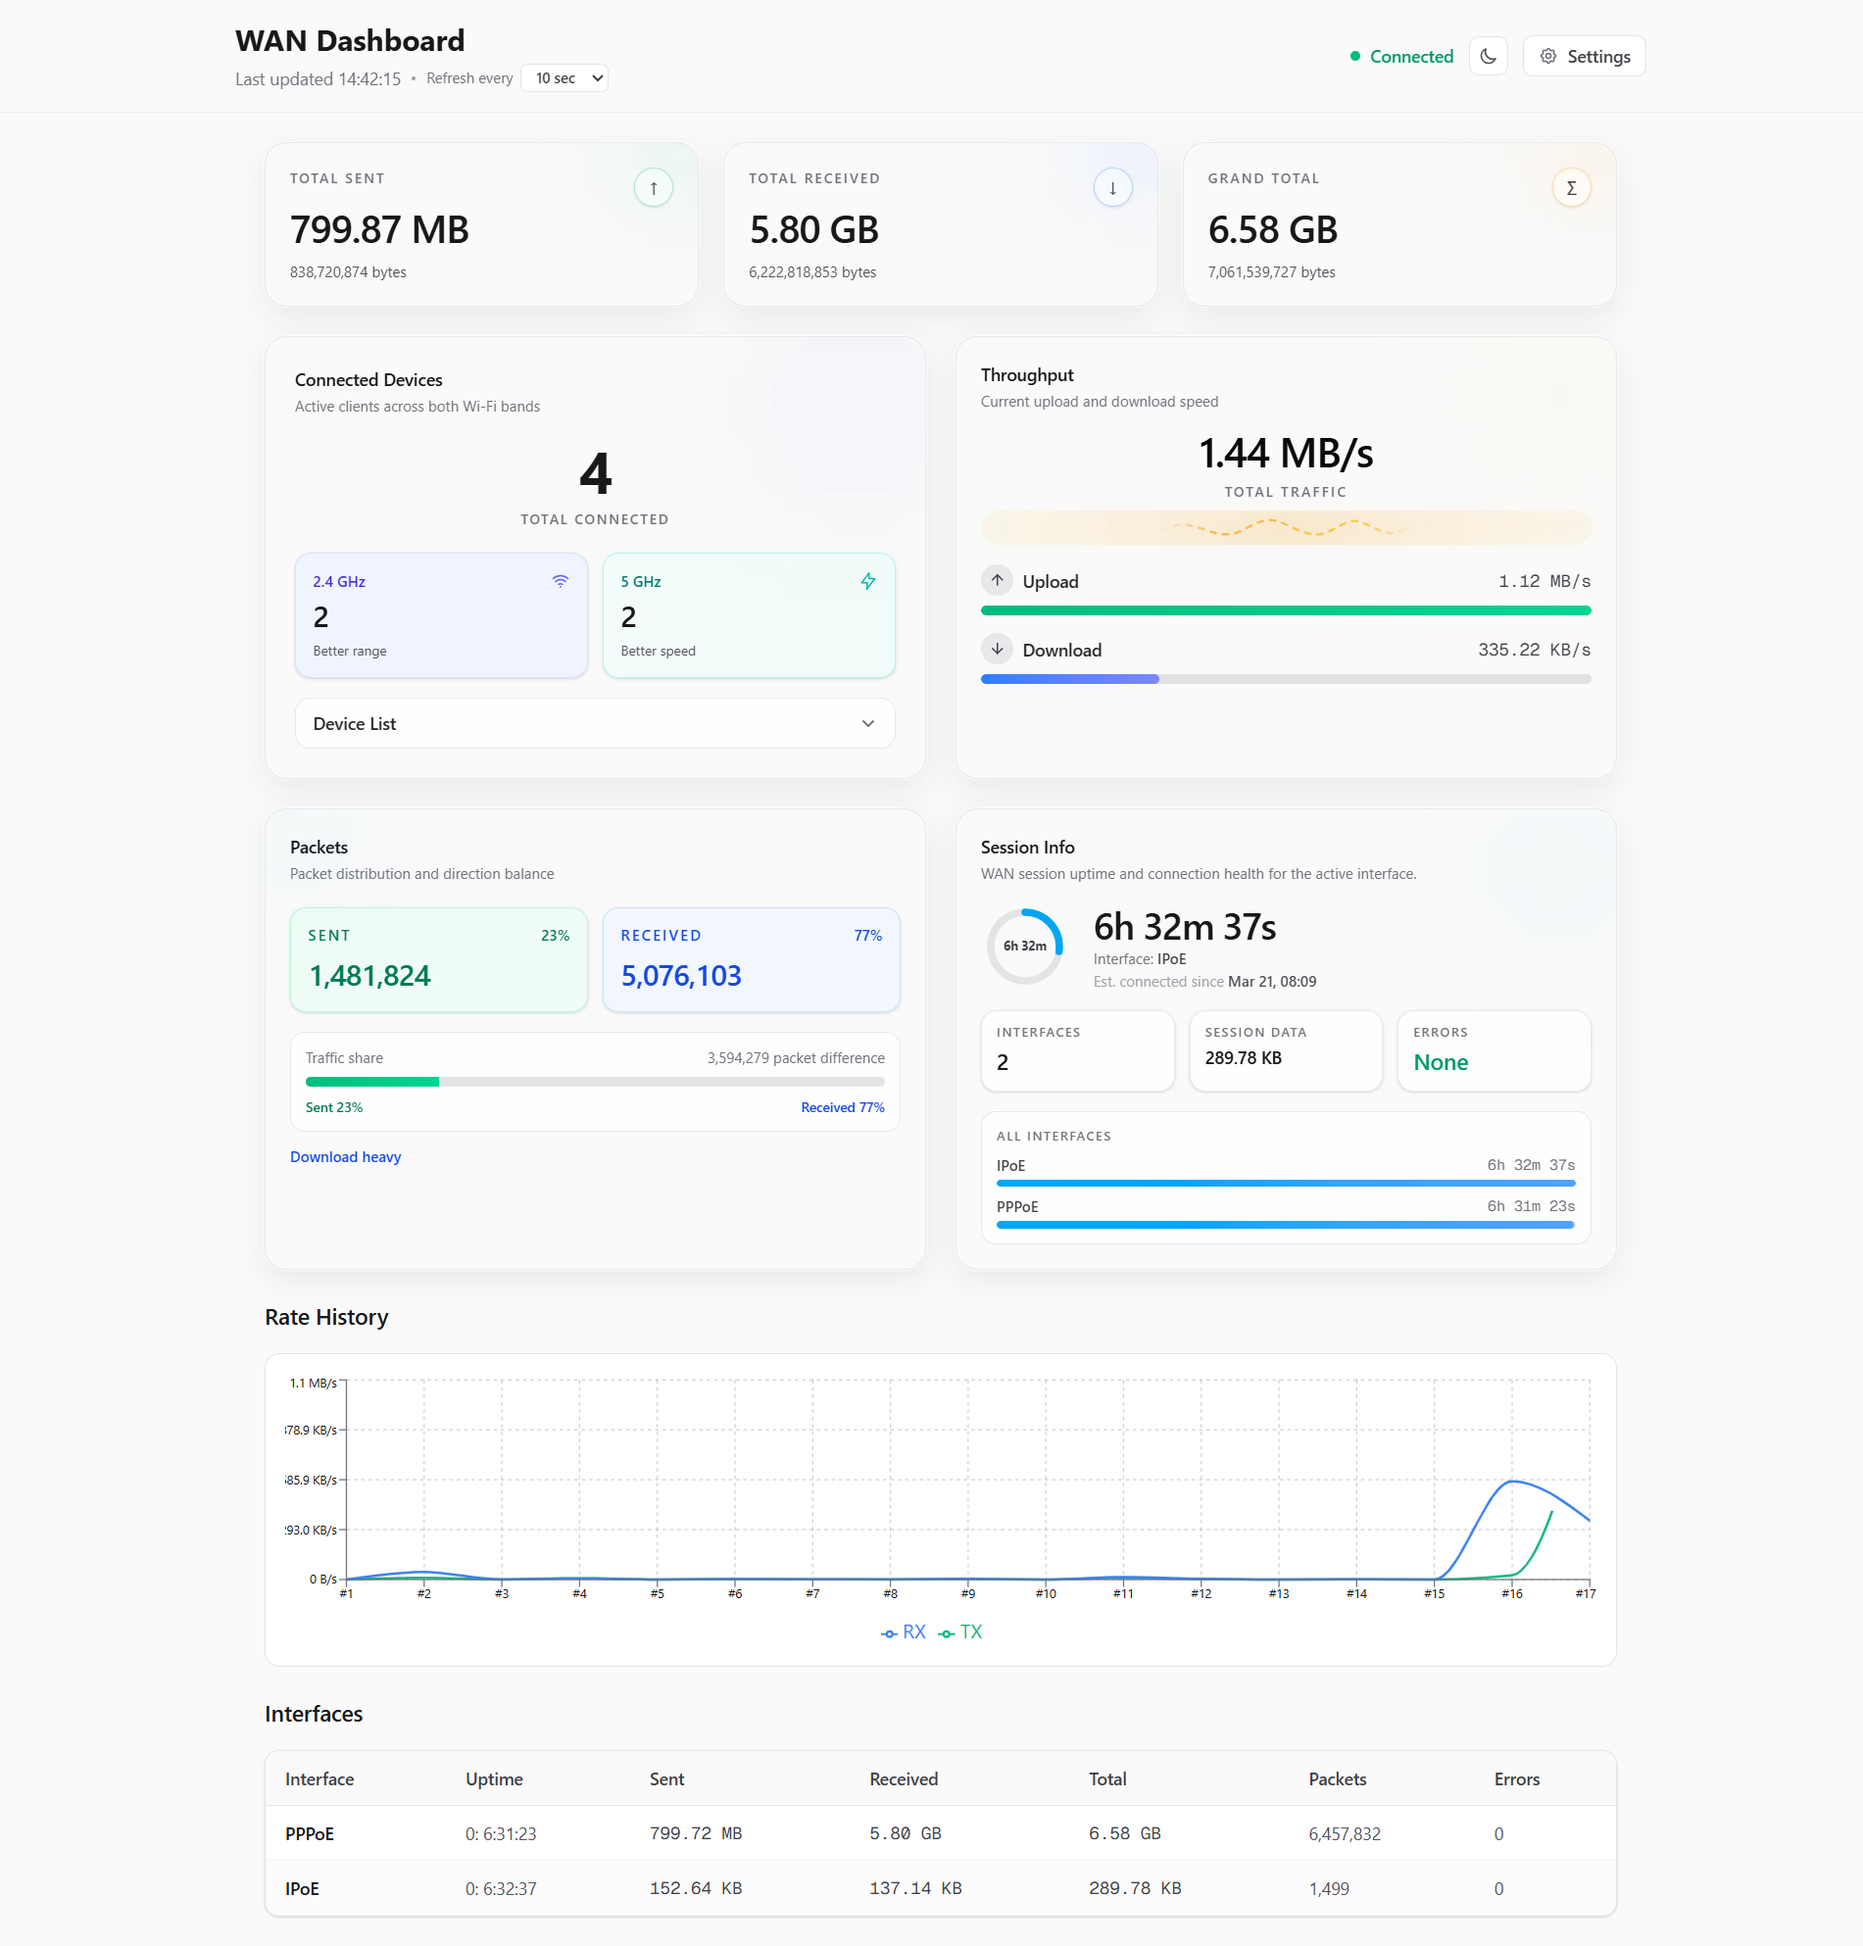
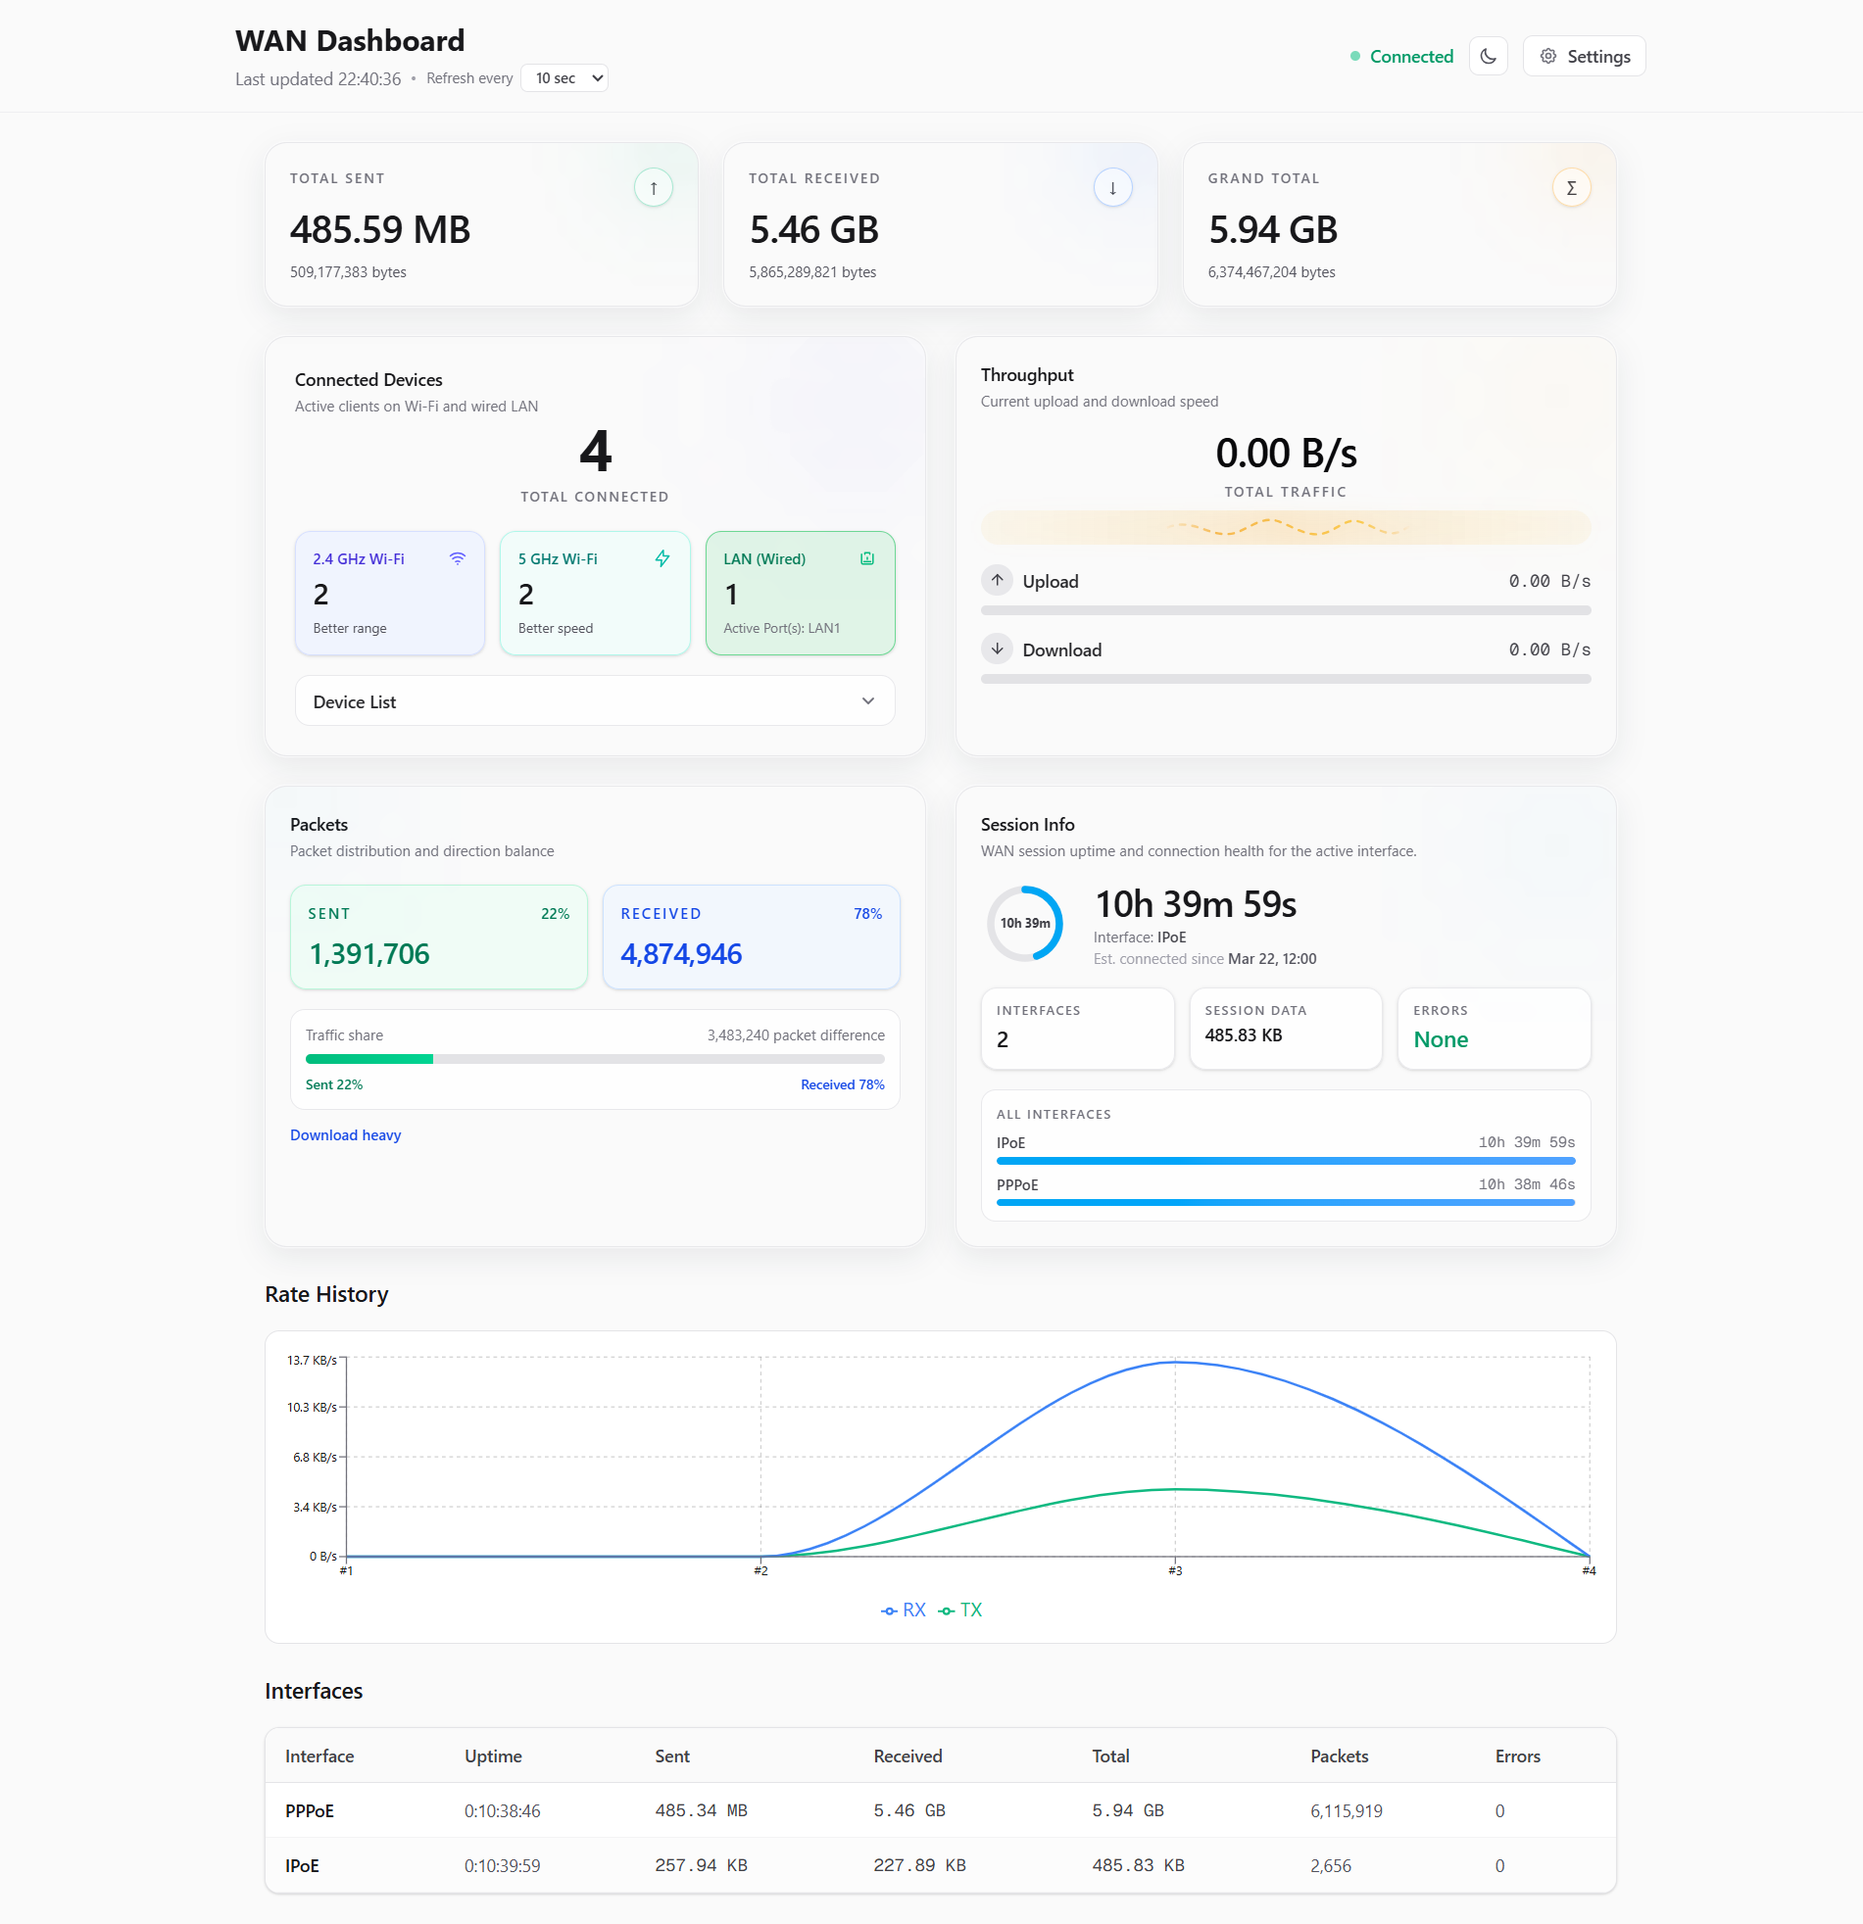
active LANs also be shown

diff --git a/components/connected-devices-card.tsx b/components/connected-devices-card.tsx
@@ -10,6 +10,7 @@ interface ConnectedDevicesCardProps {
   title?: string;
   subtitle?: string;
   emptyListMessage?: string;
+  upLans?: string[];
 }
 
 function useCountUp(target: number, duration = 550) {
@@ -43,8 +44,9 @@ export function ConnectedDevicesCard({
   devices,
   variant = "default",
   title = "Connected Devices",
-  subtitle = "Active clients across both Wi-Fi bands",
+  subtitle = "Active clients on Wi-Fi and wired LAN",
   emptyListMessage = "No connected devices detected right now.",
+  upLans = [],
 }: ConnectedDevicesCardProps) {
   const [isExpanded, setIsExpanded] = useState(false);
   const listId = useId();
@@ -81,6 +83,9 @@ export function ConnectedDevicesCard({
   const animatedTotal = useCountUp(total);
   const animated2g = useCountUp(devices2g.length);
   const animated5g = useCountUp(devices5g.length);
+  const lanCount = upLans.length;
+  const animatedLan = useCountUp(lanCount);
+  const activePorts = upLans.length > 0 ? upLans.join(", ") : "N/A";
 
   const getSignalQuality = (signal: string): { label: string; tone: string } => {
     const number = Number.parseInt(signal.replace(/[^\d-]/g, ""), 10);
@@ -118,7 +123,7 @@ export function ConnectedDevicesCard({
         <p className="mt-1 text-xs text-zinc-500 dark:text-zinc-400">{subtitle}</p>
       </header>
 
-      <div className="relative mt-5 flex flex-col items-center justify-center text-center">
+      <div className="relative mt-0.5 flex flex-col items-center justify-center text-center">
         <p className="text-5xl font-bold leading-none tracking-tight text-zinc-900 tabular-nums dark:text-zinc-100">
           {animatedTotal}
         </p>
@@ -127,10 +132,11 @@ export function ConnectedDevicesCard({
         </p>
       </div>
 
-      <div className="mt-5 grid grid-cols-2 gap-3">
-        <article className="rounded-[13px] border border-indigo-200/60 bg-indigo-50/80 p-3.5 shadow-sm transition-all duration-200 hover:-translate-y-0.5 hover:shadow-md dark:border-indigo-400/20 dark:bg-indigo-500/10">
+      <div className="mt-5">
+        <div className="grid grid-cols-2 md:grid-cols-3 gap-3">
+          <article className="rounded-[13px] border border-indigo-200/60 bg-indigo-50/80 p-3.5 shadow-sm transition-all duration-200 hover:-translate-y-0.5 hover:shadow-md dark:border-indigo-400/20 dark:bg-indigo-500/10">
           <div className="flex items-center justify-between">
-            <p className="text-xs font-medium text-indigo-700 dark:text-indigo-300">2.4 GHz</p>
+            <p className="text-xs font-medium text-indigo-700 dark:text-indigo-300">2.4 GHz Wi-Fi</p>
             <svg viewBox="0 0 24 24" className="h-4 w-4 text-indigo-500 dark:text-indigo-300" fill="none" stroke="currentColor" strokeWidth="1.8" strokeLinecap="round" strokeLinejoin="round" aria-hidden>
               <path d="M3 9a13 13 0 0 1 18 0" />
               <path d="M6 12.5a9 9 0 0 1 12 0" />
@@ -146,7 +152,7 @@ export function ConnectedDevicesCard({
 
         <article className="rounded-[13px] border border-teal-200/70 bg-teal-50/80 p-3.5 shadow-sm transition-all duration-200 hover:-translate-y-0.5 hover:shadow-md dark:border-teal-400/20 dark:bg-teal-500/10">
           <div className="flex items-center justify-between">
-            <p className="text-xs font-medium text-teal-700 dark:text-teal-300">5 GHz</p>
+            <p className="text-xs font-medium text-teal-700 dark:text-teal-300">5 GHz Wi-Fi</p>
             <svg viewBox="0 0 24 24" className="h-4 w-4 text-teal-500 dark:text-teal-300" fill="none" stroke="currentColor" strokeWidth="1.8" strokeLinecap="round" strokeLinejoin="round" aria-hidden>
               <path d="M13 2 4 14h7l-1 8 10-13h-7l0-7Z" />
             </svg>
@@ -156,13 +162,37 @@ export function ConnectedDevicesCard({
           </p>
           <p className="mt-1 text-[11px] text-zinc-600 dark:text-zinc-400">Better speed</p>
         </article>
+
+        <article className={`rounded-[13px] border p-3.5 shadow-sm transition-all duration-200 hover:-translate-y-0.5 hover:shadow-md col-span-2 md:col-span-1 ${
+            lanCount > 0
+              ? "border-[rgba(34,197,94,0.6)] bg-[rgba(34,197,94,0.12)] text-emerald-900 shadow-[0_8px_20px_rgba(34,197,94,0.18)] dark:border-[rgba(34,197,94,0.8)] dark:bg-[rgba(34,197,94,0.18)] dark:text-emerald-200"
+              : "border-zinc-300 bg-white text-zinc-500 dark:border-zinc-700 dark:bg-zinc-900 dark:text-zinc-400"
+          }`}
+        >
+          <div className="flex items-center justify-between">
+            <p className="text-xs font-medium text-emerald-700 dark:text-emerald-300">LAN (Wired)</p>
+            <svg viewBox="0 0 24 24" className="h-4 w-4 text-emerald-500 dark:text-emerald-300" fill="none" stroke="currentColor" strokeWidth="1.8" strokeLinecap="round" strokeLinejoin="round" aria-hidden>
+              <path d="M19 7v10a2 2 0 0 1-2 2H7a2 2 0 0 1-2-2V7" />
+              <path d="M9 7V5h6v2" />
+              <path d="M12 11v2" />
+              <path d="M8 16h8" />
+            </svg>
+          </div>
+          <p className="mt-1 text-2xl font-semibold tracking-tight text-zinc-900 tabular-nums dark:text-zinc-100">
+            {animatedLan}
+          </p>
+          <p className="text-[11px] mt-1 text-zinc-500 dark:text-zinc-400">
+            {lanCount > 0 ? `Active Port(s): ${activePorts}` : "No wired devices connected"}
+          </p>
+        </article>
       </div>
+    </div>
 
       <div className="mt-4">
         <button
           type="button"
           onClick={() => setIsExpanded((prev) => !prev)}
-          className={`flex w-full items-center justify-between rounded-[12px] border px-3.5 py-2.5 text-sm font-medium transition-colors ${panelBtnClass} ${
+          className={`flex w-full items-center justify-between rounded-xl border px-3.5 py-2.5 text-sm font-medium transition-colors ${panelBtnClass} ${
             isGuest ? "text-violet-950 dark:text-violet-100" : "text-zinc-800"
           }`}
           aria-expanded={isExpanded}

diff --git a/app/api/usage/route.ts b/app/api/usage/route.ts
@@ -219,6 +219,73 @@ function parseGuestFirstMoreApRow(html: string): { active: boolean; ssid: string
   return empty;
 }
 
+function stripTags(value: string): string {
+  return value
+    .replace(/<[^>]*>/g, " ")
+    .replace(/&nbsp;/gi, " ")
+    .replace(/&amp;/gi, "&")
+    .replace(/\s+/g, " ")
+    .trim();
+}
+
+interface LanStatusRow {
+  interface: string;
+  status: string;
+  rate: string;
+}
+
+function parseStatusView(html: string): LanStatusRow[] {
+  if (!html || typeof html !== "string") return [];
+
+  const rows: LanStatusRow[] = [];
+  const rowRegex = /<tr[^>]*>([\s\S]*?)<\/tr>/gi;
+  let rowMatch: RegExpExecArray | null;
+
+  while ((rowMatch = rowRegex.exec(html)) !== null) {
+    const rowContent = rowMatch[1];
+    const cellRegex = /<td[^>]*>([\s\S]*?)<\/td>/gi;
+    const cells: string[] = [];
+    let cellMatch: RegExpExecArray | null;
+
+    while ((cellMatch = cellRegex.exec(rowContent)) !== null) {
+      cells.push(stripTags(cellMatch[1]));
+    }
+
+    if (cells.length < 2) continue;
+
+    const interfaceName = cells[0];
+    const status = cells[1];
+    const rate = cells[2] ?? "";
+
+    if (!interfaceName || /interface\s*status/i.test(interfaceName)) continue;
+
+    rows.push({ interface: interfaceName, status, rate });
+  }
+
+  return rows;
+}
+
+function extractUpLanNames(rows: LanStatusRow[]): string[] {
+  return rows
+    .filter((row) => /^lan\d+/i.test(row.interface.trim()) && /up/i.test(row.status.trim()))
+    .map((row) => row.interface.trim());
+}
+
+async function fetchLanStatus(
+  baseUrl: string,
+  authHeaders: Record<string, string>
+): Promise<{ all: LanStatusRow[]; up: string[] }> {
+  const statusUrl = `${baseUrl}/cgi-bin/statusview.cgi`;
+  try {
+    const html = await requestWithInsecureParser(statusUrl, authHeaders);
+    const all = parseStatusView(html);
+    return { all, up: extractUpLanNames(all) };
+  } catch (error) {
+    console.warn("Could not fetch statusview CGI:", error);
+    return { all: [], up: [] };
+  }
+}
+
 function emptyGuestWifiData(): GuestWifiData {
   return {
     active_2g: false,
@@ -397,15 +464,17 @@ export async function GET(req: NextRequest) {
     const usageData = await client.fetchUsageData();
     
     const session = await client.loginRouter(config);
-    const [devicesData, guest] = await Promise.all([
+    const [devicesData, guest, lanStatus] = await Promise.all([
       fetchDevices(config.baseUrl, session.defaultHeaders),
       fetchGuestWifiData(config.baseUrl, session.defaultHeaders),
+      fetchLanStatus(config.baseUrl, session.defaultHeaders),
     ]);
 
     const responseData = {
       usage: usageData,
       devices: devicesData,
       guest,
+      lanStatus,
     };
 
     usageRateLimiter.updateCache(LOCAL_RATE_LIMIT_KEY, responseData);

diff --git a/components/dashboard.tsx b/components/dashboard.tsx
@@ -93,7 +93,7 @@ export function Dashboard() {
         {data.guest.anyActive ? (
           <div className="flex flex-col gap-5 sm:gap-6">
             <div className="grid grid-cols-1 items-stretch gap-5 sm:gap-6 lg:grid-cols-2">
-              <ConnectedDevicesCard devices={data.devices} />
+              <ConnectedDevicesCard devices={data.devices} upLans={data.lanStatus?.up ?? []} />
               <ConnectedDevicesCard
                 variant="guest"
                 devices={{
@@ -111,7 +111,7 @@ export function Dashboard() {
           </div>
         ) : (
           <div className="grid grid-cols-1 items-stretch gap-5 sm:gap-6 lg:grid-cols-2">
-            <ConnectedDevicesCard devices={data.devices} />
+            <ConnectedDevicesCard devices={data.devices} upLans={data.lanStatus?.up ?? []} />
             <RateDisplay txRate={rates.txRate} rxRate={rates.rxRate} peakRate={peakRate} />
           </div>
         )}

diff --git a/lib/types.ts b/lib/types.ts
@@ -58,10 +58,22 @@ export interface UsageData {
   wan: WanData;
 }
 
+export interface LanInterfaceStatus {
+  interface: string;
+  status: string;
+  rate: string;
+}
+
+export interface LanStatusData {
+  all: LanInterfaceStatus[];
+  up: string[];
+}
+
 export interface UsageApiResponse {
   usage: UsageData;
   devices: ConnectedDevicesData;
   guest: GuestWifiData;
+  lanStatus?: LanStatusData;
 }
 
 export interface RouterSession {
